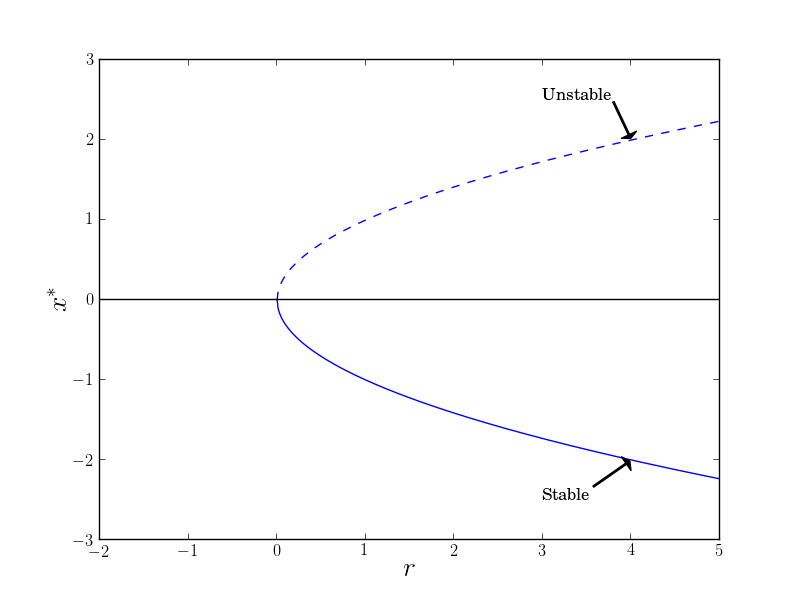
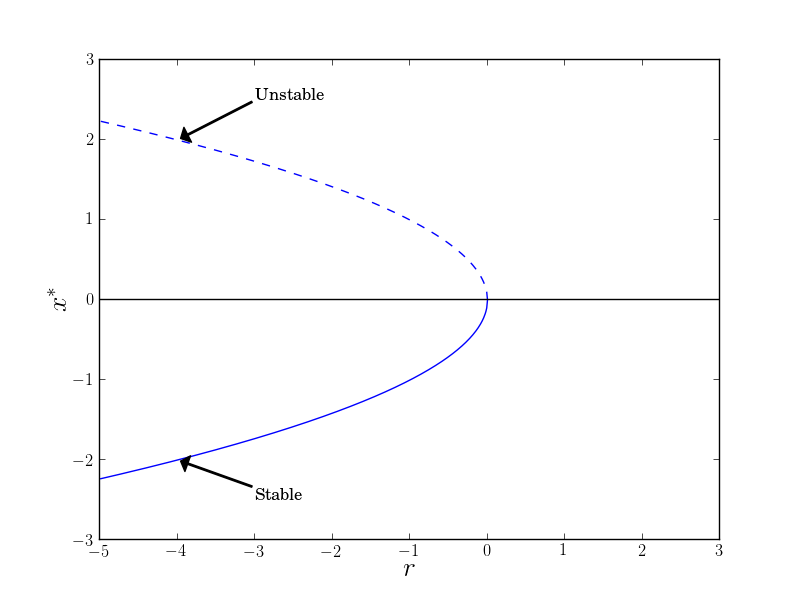
fix typos

diff --git a/assets/bifurcation/saddle-node.py b/assets/bifurcation/saddle-node.py
@@ -310,22 +310,23 @@ if __name__ == "__main__":
     frame1.axes.get_yaxis().set_visible(True)
     
 
-    ## x = +-sqrt(r)
+    ## x = +-sqrt(-r)
     rp = arange(0,5,0.01)
     fig= figure(6001)
+    lx = arange(-5,3,0.01)
     ax = fig.add_subplot(111)
     frame1 = plt.gca()
     hold
-    ax.plot(rp,sqrt(rp),'b--')
-    ax.plot(rp,-sqrt(rp),'b-')
+    ax.plot(-rp,sqrt(rp),'b--')
+    ax.plot(-rp,-sqrt(rp),'b-')
     ax.plot(lx,zeros_like(lx),'k-')
     xlabel(r'$r$',fontsize=fs)
     ylabel(r'$x^*$',fontsize=fs)
-    # xlim([-5,5])
-    ax.annotate('Stable', xy=(4, -2), xytext=(3,-2.5),
+    xlim([-5,3])
+    ax.annotate('Stable', xy=(-4, -2), xytext=(-3,-2.5),
              arrowprops=dict(facecolor='black', shrink=0.04, width=1),
              )
-    ax.annotate('Unstable', xy=(4, 2), xytext=(3, 2.5),
+    ax.annotate('Unstable', xy=(-4, 2), xytext=(-3, 2.5),
              arrowprops=dict(facecolor='black', shrink=0.04, width=1),
              )
     frame1.axes.get_xaxis().set_visible(True)

diff --git a/_posts/2016-09-03-saddle-node-bifurcation.md b/_posts/2016-09-03-saddle-node-bifurcation.md
@@ -8,7 +8,7 @@ Often, a non-linear dynamical system will depend on a parameter. The value of wh
 
 $$
 \begin{equation}
-\dot{x} = r - x^2
+\dot{x} = r + x^2
 \end{equation}
 $$
 
@@ -27,13 +27,13 @@ There are several ways to visualize how the fix points of a system depend on the
 If we look at the fixed points of the system (1), $x^*$ they will solve the equation
 
 $$
-0 = r - x^2
+0 = r + x^2
 $$
 
 So that 
 
 $$
-r = {x^*}^2
+r = -{x^*}^2
 $$
 
 Which is a simple plot. However, it is preferable to look at the this image with the axes inverted. This makes it clear that the fixed points of the system, $x^*$ are a function of the parameter, $r$.
